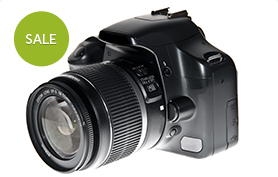
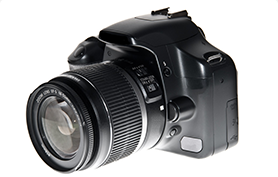
use onsale image

Changed region(s): [[0.0288, 0.0565, 0.259, 0.3955]]

diff --git a/camera_store/index.html b/camera_store/index.html
@@ -63,7 +63,7 @@
 			<div class="header">
 				<h1 class="logo">					
 					<a href="javascript:void(0);" autofocus></a>					
-				</h1>				
+				</h1>			
 				<div class="social">
 					<ul>
 						<li class="search_div">
@@ -112,6 +112,7 @@
 				</div>
 				
 				<div class="product_card"> 
+					<img class="onsale" src="images/onsale.png"></img>
 					<img src="images/sell-item-01.png">
 					<div class="choice" >
 						<span class="price">$899.99</span>
@@ -140,6 +141,7 @@
 					</div>
 				</div>
 				<div class="product_card"> 
+					<img class="onsale" src="images/onsale.png"></img>
 					<img src="images/sell-item-03.png">
 					<div class="choice" >
 						<span class="price">$899.99</span>
@@ -206,6 +208,7 @@
 					</div>
 				</div>
 				<div class="product_card"> 
+					<img class="onsale" src="images/onsale.png"></img>
 					<img src="images/sell-item-07.png">
 					<div class="choice" >
 						<span class="price">$899.99</span>

diff --git a/camera_store/style/common.css b/camera_store/style/common.css
@@ -262,6 +262,7 @@ input[type='button']:hover{
 
 }
 .product_card{
+	position: relative;
 	width:22%;	
 	display: inline-block;
 	border-radius: 2px;
@@ -272,6 +273,14 @@ input[type='button']:hover{
 
 .product_card img{
 	width:100%;	
+}
+
+.product_card img.onsale {
+	position: absolute;
+	top :7px;
+	left:7px;
+	width: 50px;
+	height:50px;
 }
 
 .choice{
